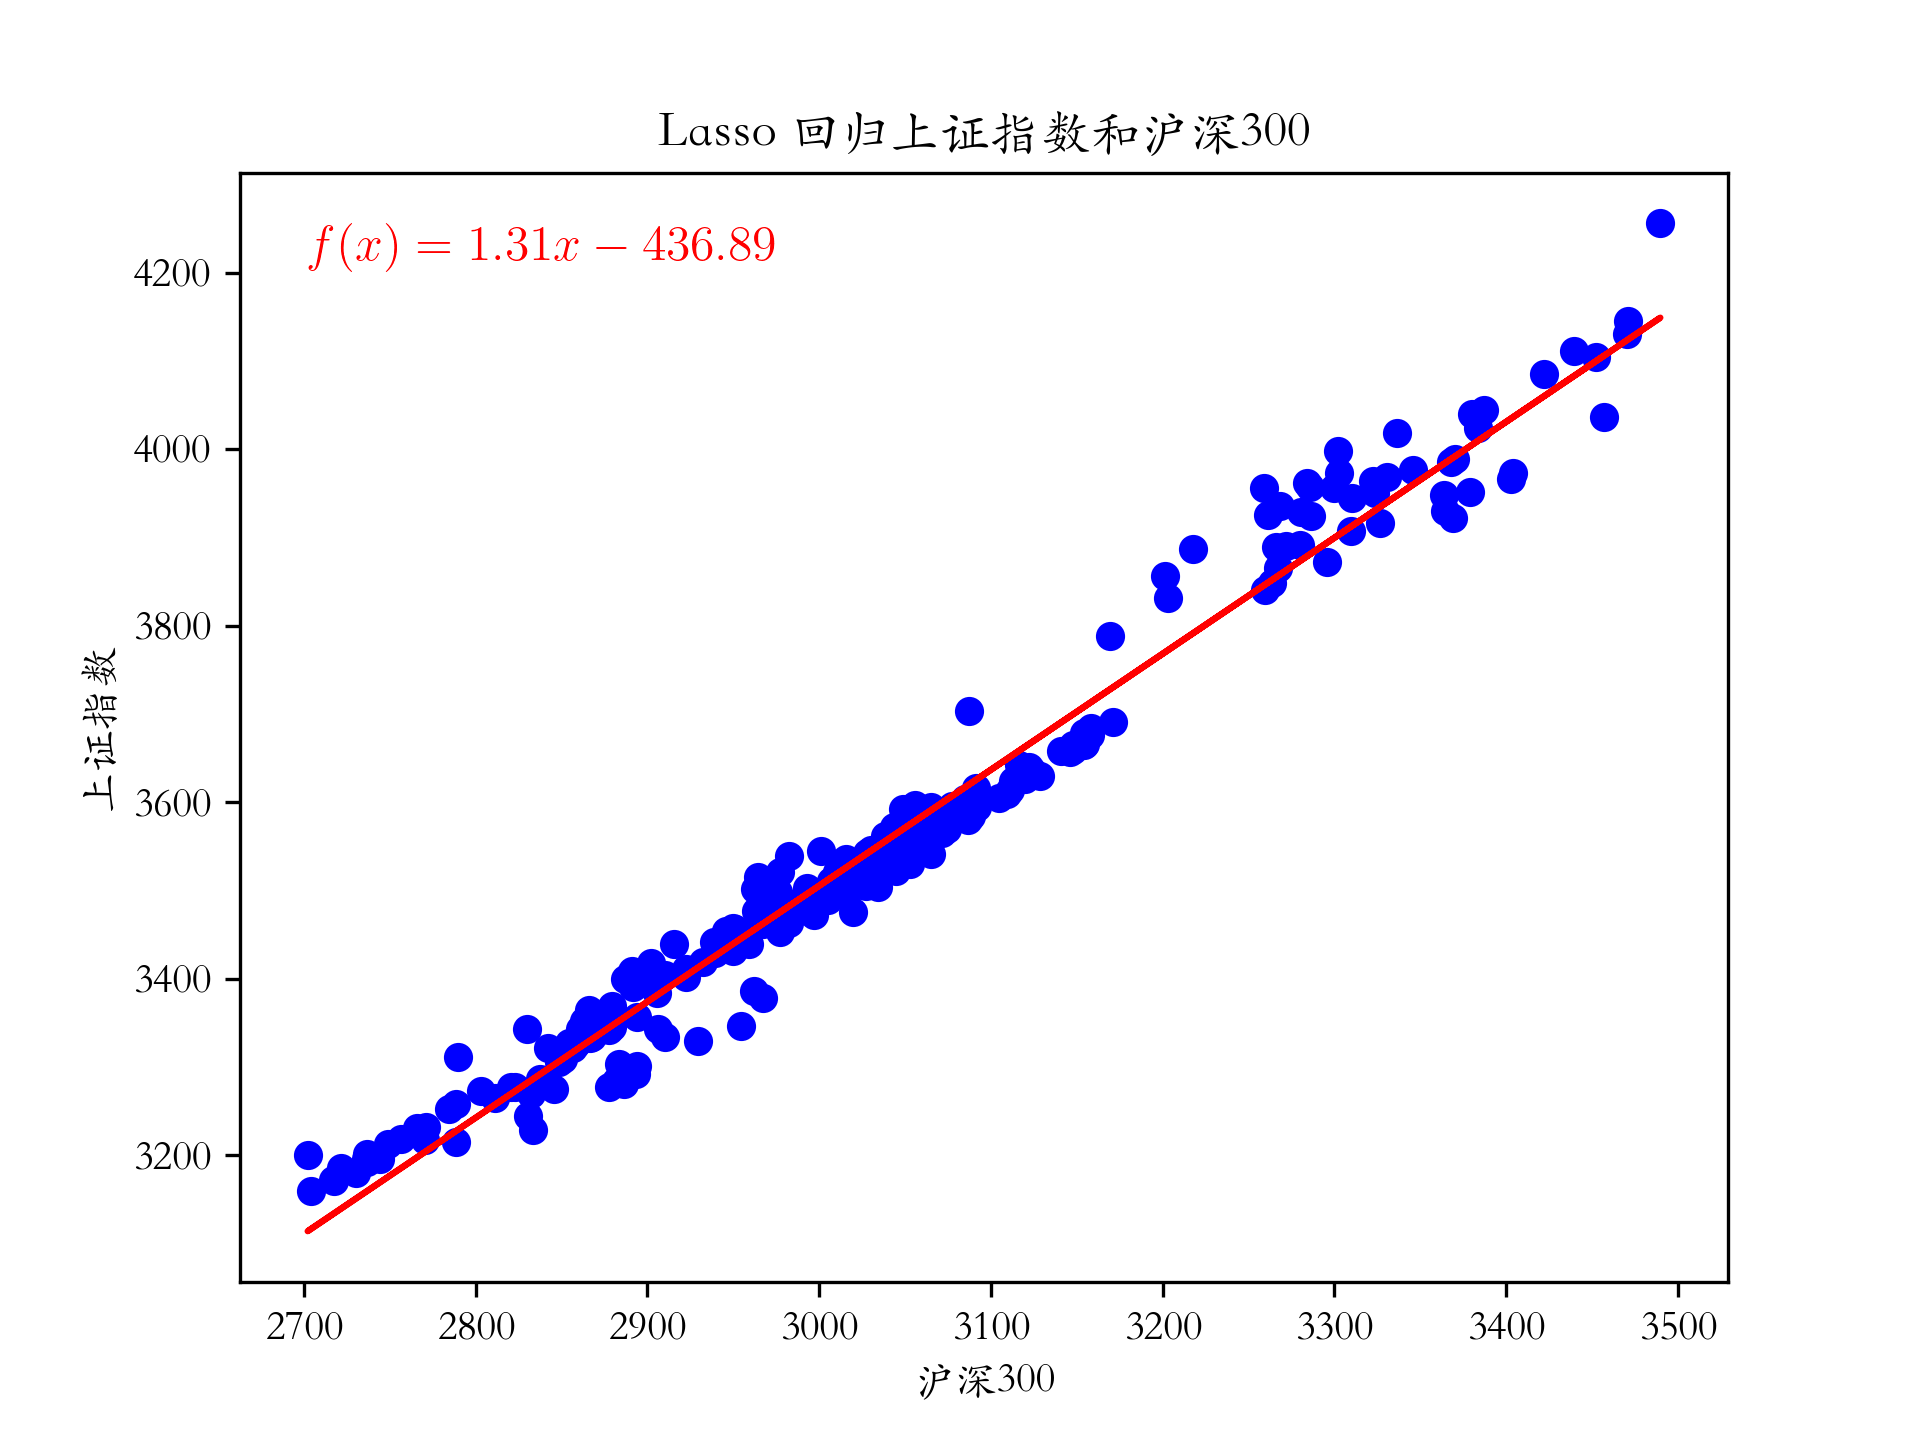
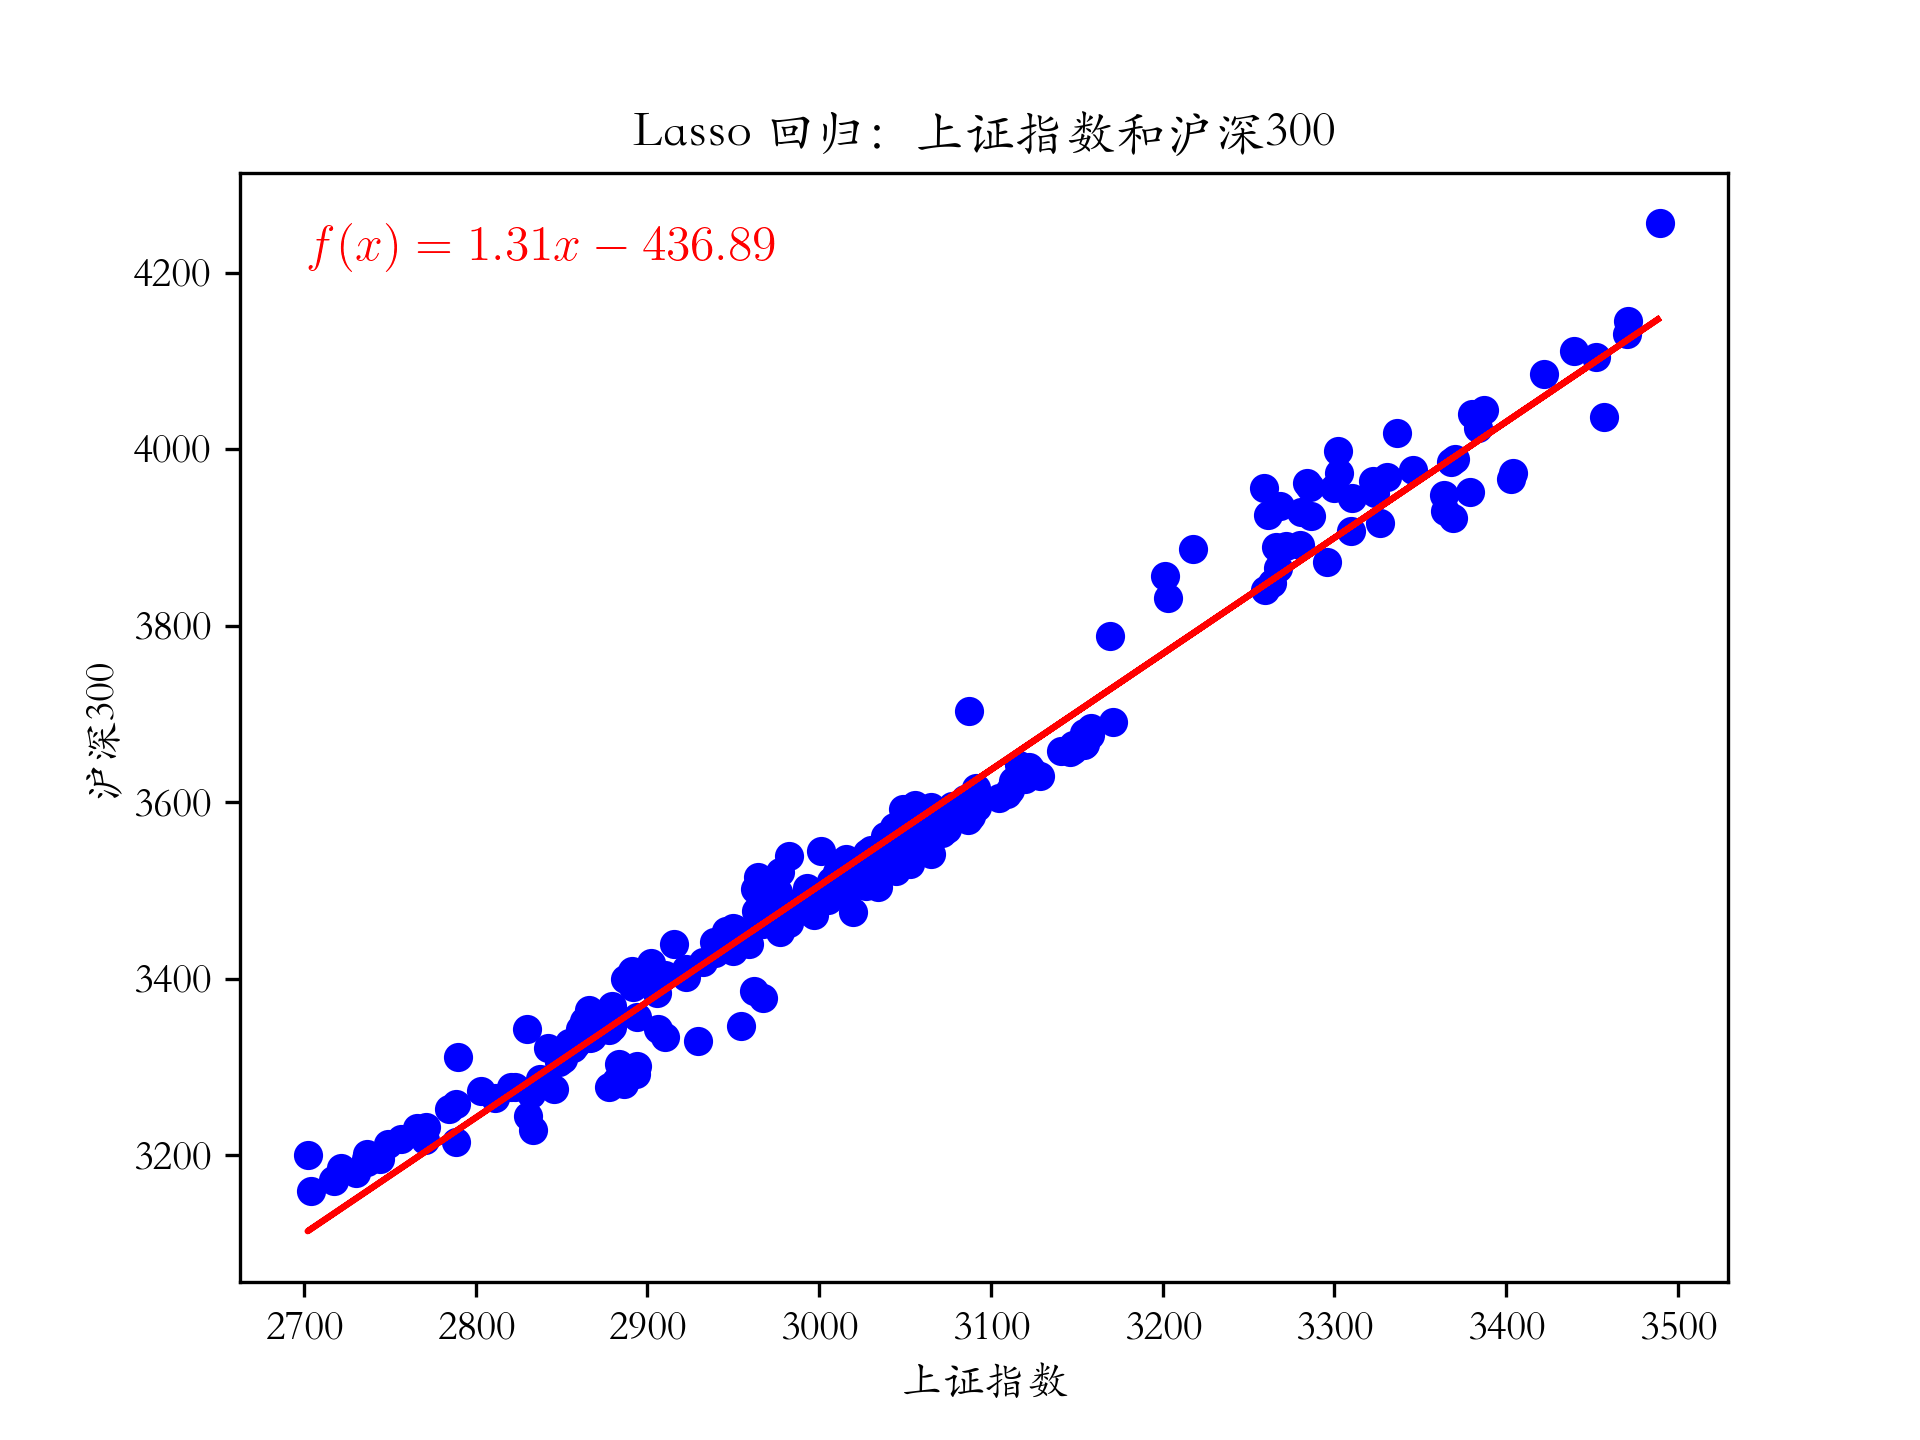
RS

Changed region(s): [[0.3438, 0.0625, 0.6875, 0.125], [0.0312, 0.4375, 0.0625, 0.5625], [0.4688, 0.9375, 0.5625, 0.9688]]

diff --git a/code/lasso_1.py b/code/lasso_1.py
@@ -1,5 +1,7 @@
 import pandas as pd
+import numpy as np
 from sklearn.linear_model import LassoCV
+from sklearn.preprocessing import StandardScaler
 import matplotlib.pyplot as plt
 import os
 
@@ -17,26 +19,33 @@ df_x = pd.read_csv('../dataset/恒生指数_2024.csv')
 df_y['日期'] = pd.to_datetime(df_y['日期'])
 df_x['日期'] = pd.to_datetime(df_x['日期'])
 data = pd.merge(df_y, df_x, on='日期', how='inner')
+print(data.info())
 
 y = data['收盘_y'].values
 X = data['收盘_x'].values
 
-y = y.reshape(-1, 1)
+y = y.ravel()
 X = X.reshape(-1, 1)
+
+scaler = StandardScaler()
+X_scaled = scaler.fit_transform(X)
 
 ## lasso regression
 lasso = LassoCV(cv=5, random_state=42)
-lasso.fit(X, y)
+lasso.fit(X_scaled, y)
 
 ## visualization
-title = 'Lasso 回归' + df_y['股票名称'][0] + '和' + df_x['股票名称'][0]
-lasso_equation = rf'$f(x) = {lasso.coef_[0]:.2f} x + {lasso.intercept_:.2f}$'
+title = 'Lasso 回归：' + data['股票名称_x'][0] + '和' + data['股票名称_y'][0]
+
+lasso.coef_ = lasso.coef_ / scaler.scale_
+lasso.intercept_ = lasso.intercept_ - np.dot(lasso.coef_, scaler.mean_)
+lasso_equation = rf'$f(x) = {lasso.coef_[0]:.2f} x + {lasso.intercept_:.2f}$' 
 
 plt.scatter(X, y, color='blue')
 plt.plot(X, lasso.predict(X), color='red')
 plt.title(title)
-plt.xlabel(df_x['股票名称'][0])
-plt.ylabel(df_y['股票名称'][0])
+plt.xlabel(data['股票名称_x'][0])
+plt.ylabel(data['股票名称_y'][0])
 plt.text(X.min(), y.max(), lasso_equation, fontsize=12, color='red', verticalalignment='top', usetex=True)
 # plt.show()
-plt.savefig(f'../output/lasso_1/lasso_{df_y["股票名称"][0]}_{df_x["股票名称"][0]}.png', dpi=300)
+plt.savefig(f'../output/lasso_1/lasso_{data["股票名称_x"][0]}_{data["股票名称_y"][0]}.png', dpi=300)

diff --git a/code/lasso_n.py b/code/lasso_n.py
@@ -1,0 +1,39 @@
+import pandas as pd
+from sklearn.linear_model import LassoCV
+from sklearn.preprocessing import StandardScaler
+import matplotlib.pyplot as plt
+import os
+
+if not os.path.exists('../output/lasso_n'):
+    os.makedirs('../output/lasso_n')
+
+## plt config
+plt.rcParams['font.sans-serif'] = ['Kaiti SC']
+plt.rcParams['axes.unicode_minus'] = False
+
+## Load data
+df_y = df_y = pd.read_csv('../dataset/上证指数_2024.csv')
+
+def self(df):
+    df['日期'] = pd.to_datetime(df['日期'])
+    y = df['收盘'].values
+    X = df.drop(columns=['日期', '股票名称', '股票代码', '收盘']).values
+    return y, X
+
+y, X = self(df_y)
+scaler = StandardScaler()
+X_scaled = scaler.fit_transform(X)
+
+## lasso regression
+lasso = LassoCV(cv=5, random_state=42)
+lasso.fit(X_scaled, y)
+
+## visualization
+plt.figure(figsize=(10, 6))
+plt.scatter(X_scaled[:, 0], y, color='black', label='真实数据')
+plt.plot(X_scaled[:, 0], lasso.predict(X_scaled), color='blue', linewidth=3, label='Lasso拟合')
+plt.title('Lasso Regression: 上证指数预测')
+plt.xlabel('第一个特征')
+plt.ylabel('收盘价 (上证指数)')
+plt.legend()
+plt.show()
